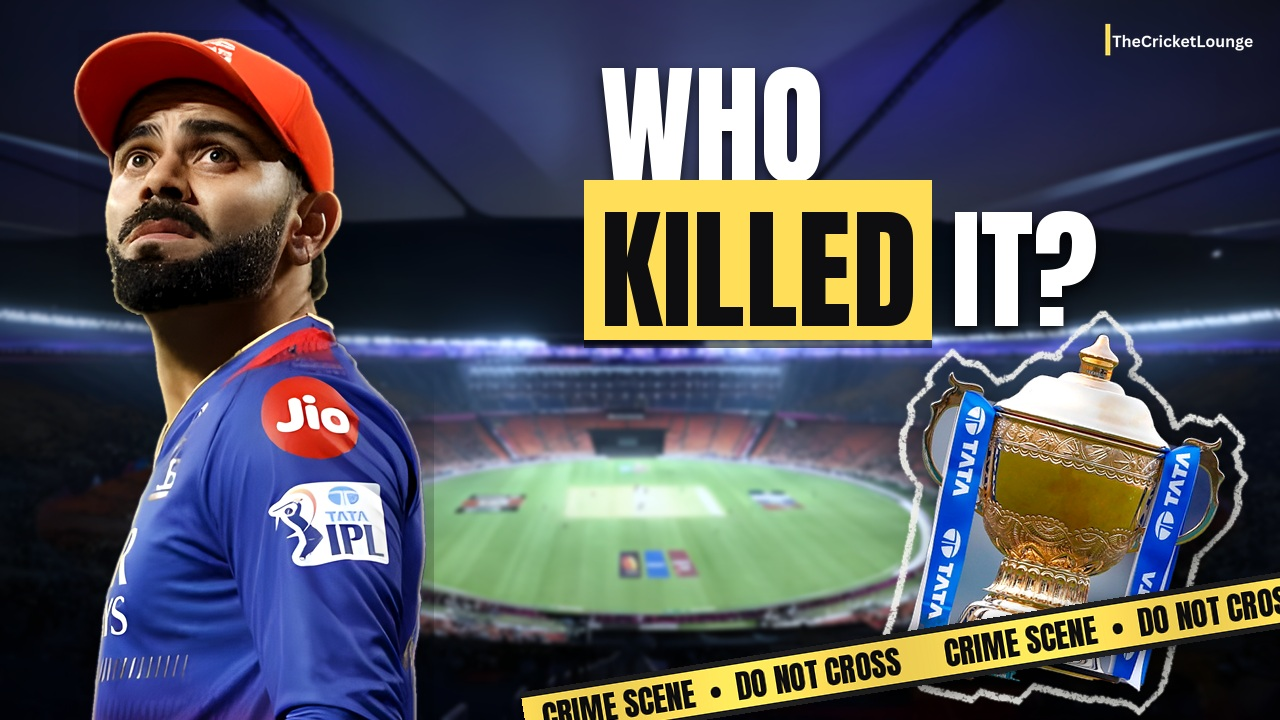
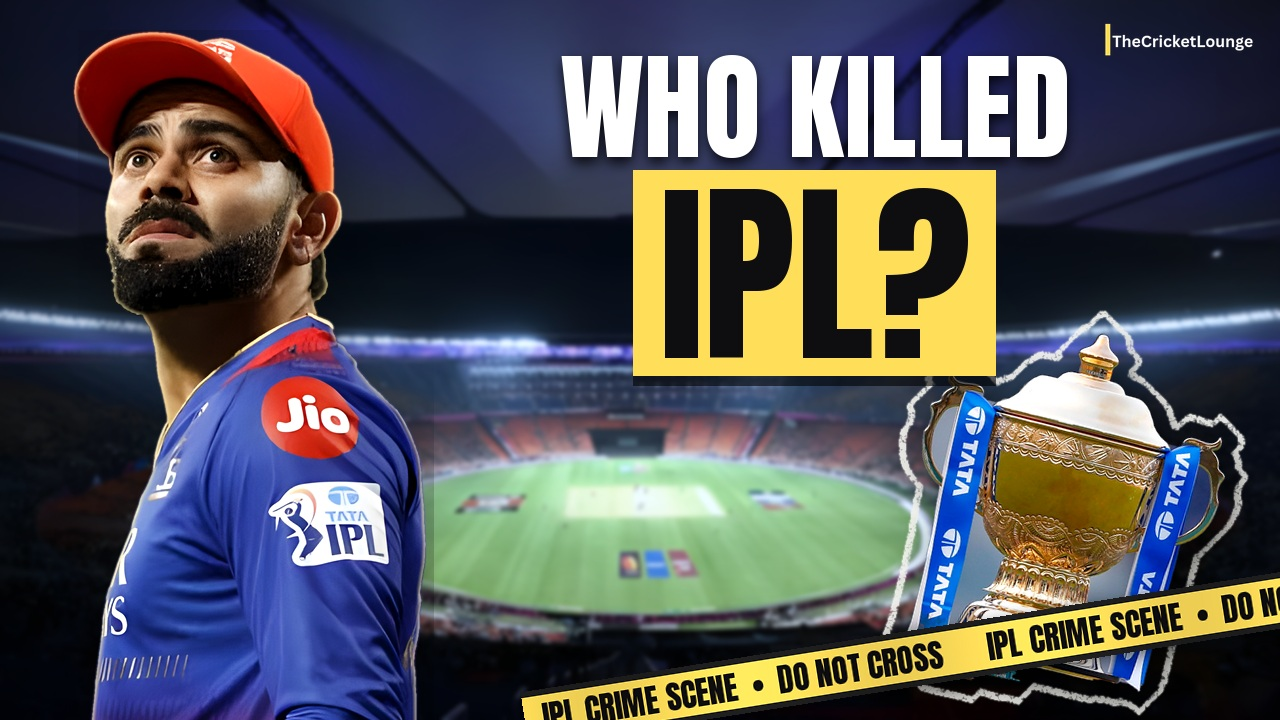
IPL thumbnail: WHO KILLED IPL?, IPL tape
Claude-Session: https://claude.ai/code/session_01SQh72PYSr2UGL5osbLDTTd

Changed region(s): [[0.4375, 0.0611, 0.875, 0.55], [0.4062, 0.7944, 1.0, 1.0]]

diff --git a/ipl_killed/thumb/make_thumb.py b/ipl_killed/thumb/make_thumb.py
@@ -78,28 +78,30 @@ def tape(length, thick, text, angle):
     return t.rotate(angle, expand=True, resample=Image.BICUBIC)
 
 
+def _shadow_text(base, xy, text, font):
+    sh = Image.new("RGBA", base.size, (0, 0, 0, 0))
+    ImageDraw.Draw(sh).text((xy[0], xy[1] + 6), text, font=font, fill=(0, 0, 0, 210))
+    base.alpha_composite(sh.filter(ImageFilter.GaussianBlur(6)))
+    ImageDraw.Draw(base).text(xy, text, font=font, fill=(255, 255, 255))
+
+
 def text_block(base):
+    """WHO KILLED / [IPL?] - the IPL word is the biggest thing on the thumbnail."""
     d = ImageDraw.Draw(base)
-    f1 = ImageFont.truetype(ANTON, 132)
-    # line 1 "WHO" white, line 2 "KILLED IT?" with KILLED in a yellow box
-    x0, y0 = 600, 26
-    sh = Image.new("RGBA", base.size, (0, 0, 0, 0))
-    ds = ImageDraw.Draw(sh)
-    for dx, dy in [(0, 6)]:
-        ds.text((x0 + dx, y0 + dy), "WHO", font=f1, fill=(0, 0, 0, 200))
-    base.alpha_composite(sh.filter(ImageFilter.GaussianBlur(6)))
-    d.text((x0, y0), "WHO", font=f1, fill=(255, 255, 255))
-    wk = d.textlength("KILLED", font=f1)
-    y1 = y0 + 150
-    pad = 16
-    box = Image.new("RGBA", (int(wk + 2 * pad), 160), Y + (255,))
-    base.alpha_composite(shadow(box, 10, (0, 8), 0.55), (x0 - pad, y1 + 4))
-    base.alpha_composite(box, (x0 - pad, y1 + 4))
-    d.text((x0, y1 - 6), "KILLED", font=f1, fill=INK)
-    sh = Image.new("RGBA", base.size, (0, 0, 0, 0))
-    ImageDraw.Draw(sh).text((x0 + wk + 34, y1 - 6 + 6), "IT?", font=f1, fill=(0, 0, 0, 200))
-    base.alpha_composite(sh.filter(ImageFilter.GaussianBlur(6)))
-    d.text((x0 + wk + 34, y1 - 6), "IT?", font=f1, fill=(255, 255, 255))
+    f1 = ImageFont.truetype(ANTON, 118)
+    f2 = ImageFont.truetype(ANTON, 196)
+    x0, y0 = 560, 18
+    _shadow_text(base, (x0, y0), "WHO KILLED", f1)
+    w1 = d.textlength("WHO KILLED", font=f1)
+    l, t, r, b = d.textbbox((0, 0), "IPL?", font=f2)      # real ink box of the glyphs
+    padx, pady = 26, 18
+    bw, bh = int(r - l + 2 * padx), int(b - t + 2 * pady)
+    bx = int(x0 + w1 / 2 - bw / 2)                        # centred under line 1
+    by = y0 + 152
+    box = Image.new("RGBA", (bw, bh), Y + (255,))
+    base.alpha_composite(shadow(box, 12, (0, 10), 0.6), (bx, by))
+    base.alpha_composite(box, (bx, by))
+    d.text((bx + padx - l, by + pady - t), "IPL?", font=f2, fill=INK)
 
 
 def main():
@@ -134,7 +136,7 @@ def main():
     base.alpha_composite(rim, (kx, ky))
 
     # police tape across the scene, in front of the trophy
-    t1 = tape(1100, 56, "CRIME SCENE  •  DO NOT CROSS", 9)
+    t1 = tape(1100, 56, "IPL CRIME SCENE  •  DO NOT CROSS", 9)
     base.alpha_composite(shadow(t1, 8, (0, 6), 0.5), (520, 520))
     base.alpha_composite(t1, (520, 520))
 
